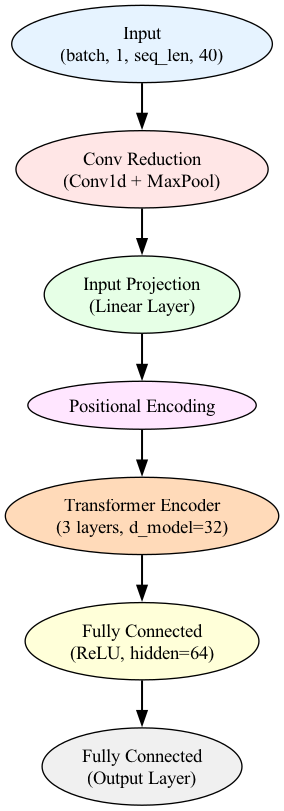
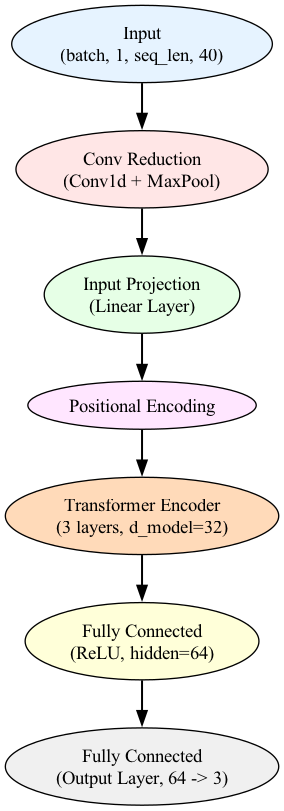
fix visualizations

diff --git a/architecture_diagrams/visualizations.py b/architecture_diagrams/visualizations.py
@@ -16,20 +16,18 @@ def create_architecture_diagram(model_version):
 
     if model_version == 'v2':
         dot.node('input', 'Input\n(batch, 1, 100, 40)', style='filled', fillcolor=input_color)
-        dot.node('conv1', 'Conv Block 1\n(Conv2d + BatchNorm)', style='filled', fillcolor=conv_color)
-        dot.node('conv2', 'Conv Block 2\n(Conv2d + BatchNorm)', style='filled', fillcolor=conv_color)
-        dot.node('conv3', 'Conv Block 3\n(Conv2d + BatchNorm)', style='filled', fillcolor=conv_color)
+        dot.node('conv1', 'Conv Block 1\n3 x (Conv2d + BatchNorm)\n1 x (dropout, rate=0.2)', style='filled', fillcolor=conv_color)
+        dot.node('conv2', 'Conv Block 2\n3 x (Conv2d + BatchNorm)\n1 x (dropout, rate=0.2)', style='filled', fillcolor=conv_color)
+        dot.node('conv3', 'Conv Block 3\n3 x (Conv2d + BatchNorm)\n1 x (dropout, rate=0.2)', style='filled', fillcolor=conv_color)
         dot.node('incep', 'Inception Blocks\n(3 Paths: Conv + Pool)', style='filled', fillcolor=incep_color)
-        dot.node('attention', 'Multihead Attention\n(8 Heads)', style='filled', fillcolor=attention_color)
         dot.node('lstm', 'LSTM\n(1 layer, hidden=64)', style='filled', fillcolor=lstm_color)
-        dot.node('fc', 'Fully Connected\n(Classification)', style='filled', fillcolor=output_color)
+        dot.node('fc', 'Fully Connected\n(64 -> 32 -> Output)', style='filled', fillcolor=output_color)
 
         dot.edge('input', 'conv1', penwidth='1.5')
         dot.edge('conv1', 'conv2', penwidth='1.5')
         dot.edge('conv2', 'conv3', penwidth='1.5')
         dot.edge('conv3', 'incep', penwidth='1.5')
-        dot.edge('incep', 'attention', penwidth='1.5')
-        dot.edge('attention', 'lstm', penwidth='1.5')
+        dot.edge('incep', 'lstm', penwidth='1.5')
         dot.edge('lstm', 'fc', penwidth='1.5')
 
     elif model_version == 'transformer':
@@ -39,7 +37,7 @@ def create_architecture_diagram(model_version):
         dot.node('pos', 'Positional Encoding', style='filled', fillcolor=attention_color)
         dot.node('trans', 'Transformer Encoder\n(3 layers, d_model=32)', style='filled', fillcolor=trans_color)
         dot.node('fc1', 'Fully Connected\n(ReLU, hidden=64)', style='filled', fillcolor=lstm_color)
-        dot.node('fc2', 'Fully Connected\n(Output Layer)', style='filled', fillcolor=output_color)
+        dot.node('fc2', 'Fully Connected\n(Output Layer, 64 -> 3)', style='filled', fillcolor=output_color)
 
         dot.edge('input', 'conv', penwidth='1.5')
         dot.edge('conv', 'input_proj', penwidth='1.5')
@@ -50,12 +48,12 @@ def create_architecture_diagram(model_version):
     
     elif model_version == 'baseline':
         dot.node('input', 'Input\n(batch, 1, 100, 40)', style='filled', fillcolor=input_color)
-        dot.node('conv1', 'Conv Block 1\n(Conv2d + BatchNorm + ReLU)', style='filled', fillcolor=conv_color)
-        dot.node('conv2', 'Conv Block 2\n(Conv2d + BatchNorm + Tanh)', style='filled', fillcolor=conv_color)
-        dot.node('conv3', 'Conv Block 3\n(Conv2d + BatchNorm + ReLU)', style='filled', fillcolor=conv_color)
+        dot.node('conv1', 'Conv Block 1\n3 x (Conv2d + BatchNorm + ReLU)', style='filled', fillcolor=conv_color)
+        dot.node('conv2', 'Conv Block 2\n3 x (Conv2d + BatchNorm + Tanh)', style='filled', fillcolor=conv_color)
+        dot.node('conv3', 'Conv Block 3\n3 x (Conv2d + BatchNorm + ReLU)', style='filled', fillcolor=conv_color)
         dot.node('incep', 'Inception Blocks\n(3 Paths: Conv + Pool)', style='filled', fillcolor=incep_color)
         dot.node('lstm', 'LSTM\n(1 layer, hidden=64)', style='filled', fillcolor=lstm_color)
-        dot.node('fc', 'Fully Connected\n(Classification)', style='filled', fillcolor=output_color)
+        dot.node('fc', 'Fully Connected\n(64 -> Output)', style='filled', fillcolor=output_color)
 
         dot.edge('input', 'conv1', penwidth='1.5')
         dot.edge('conv1', 'conv2', penwidth='1.5')
@@ -68,5 +66,6 @@ def create_architecture_diagram(model_version):
     dot.render(f"DeepLOB_{model_version}_architecture", format="png", cleanup=True)
 
 if __name__ == "__main__":
-    print('running')
     create_architecture_diagram('transformer')
+    create_architecture_diagram('baseline')
+    create_architecture_diagram('v2')
